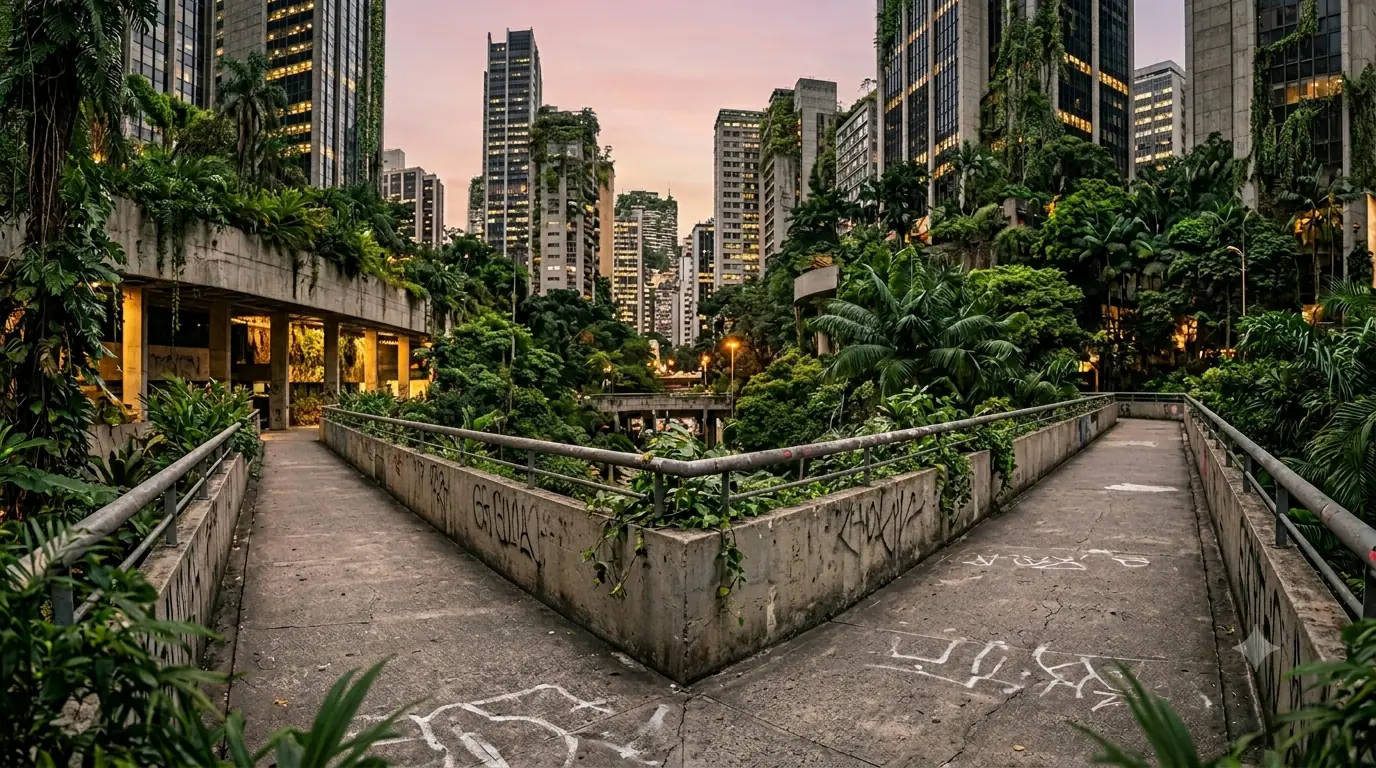
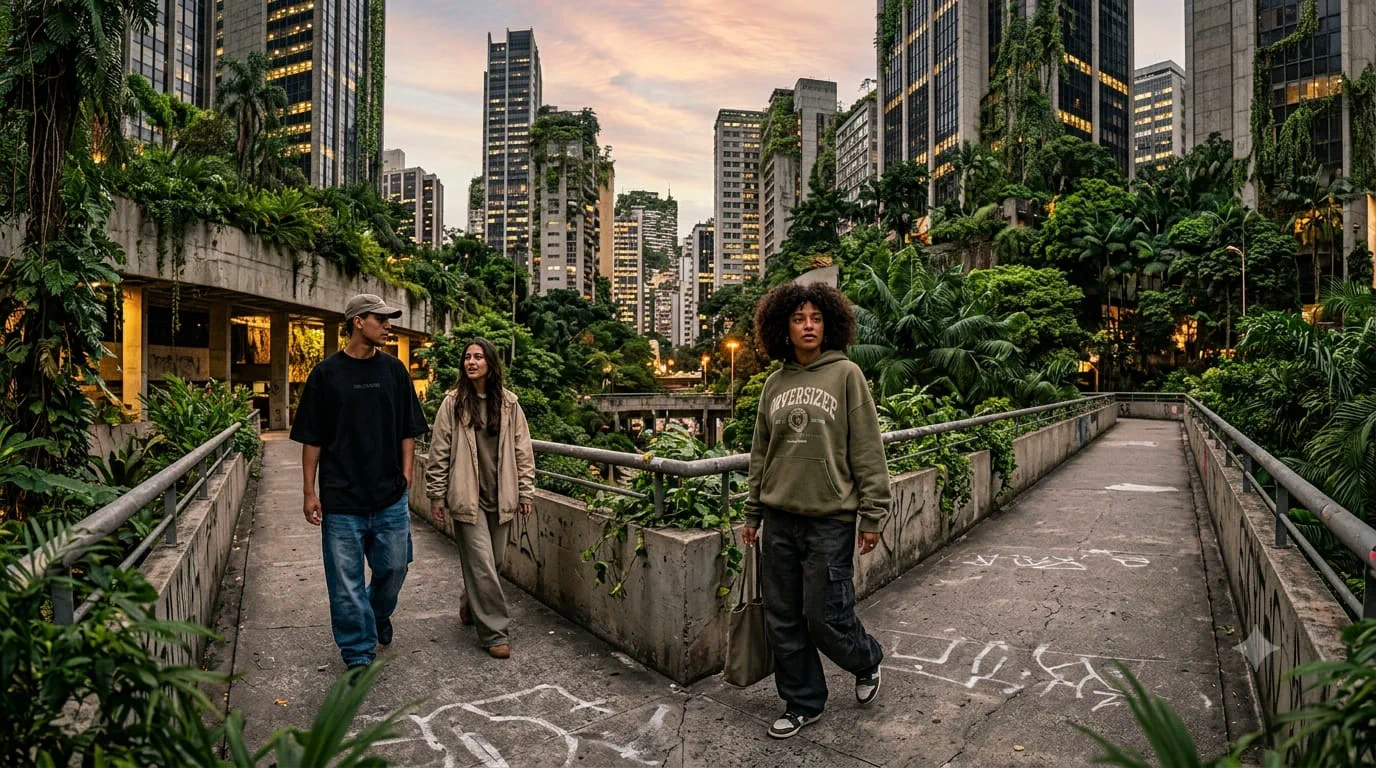
feat(ui): nuevo wallpaper "selva de cemento" (modelos Babuinos) + velo mas suave
- Reemplaza public/brand/jungle/concrete-jungle.webp por la nueva foto de marca
  (WebP q80, 1376x768, ~238KB). Todas las referencias siguen igual.
- FixedWallpaper: aligera el scrim (0.34 -> 0.48 -> 0.64) para que los modelos y
  la marca resalten, manteniendo legibilidad del texto en la parte baja.

diff --git a/src/components/fx/FixedWallpaper.tsx b/src/components/fx/FixedWallpaper.tsx
@@ -19,7 +19,7 @@ export function FixedWallpaper() {
         className="absolute inset-0"
         style={{
           background:
-            "linear-gradient(180deg, rgba(8,14,12,0.66) 0%, rgba(8,14,12,0.80) 45%, rgba(8,14,12,0.90) 100%)",
+            "linear-gradient(180deg, rgba(8,14,12,0.34) 0%, rgba(8,14,12,0.48) 45%, rgba(8,14,12,0.64) 100%)",
         }}
       />
     </div>
